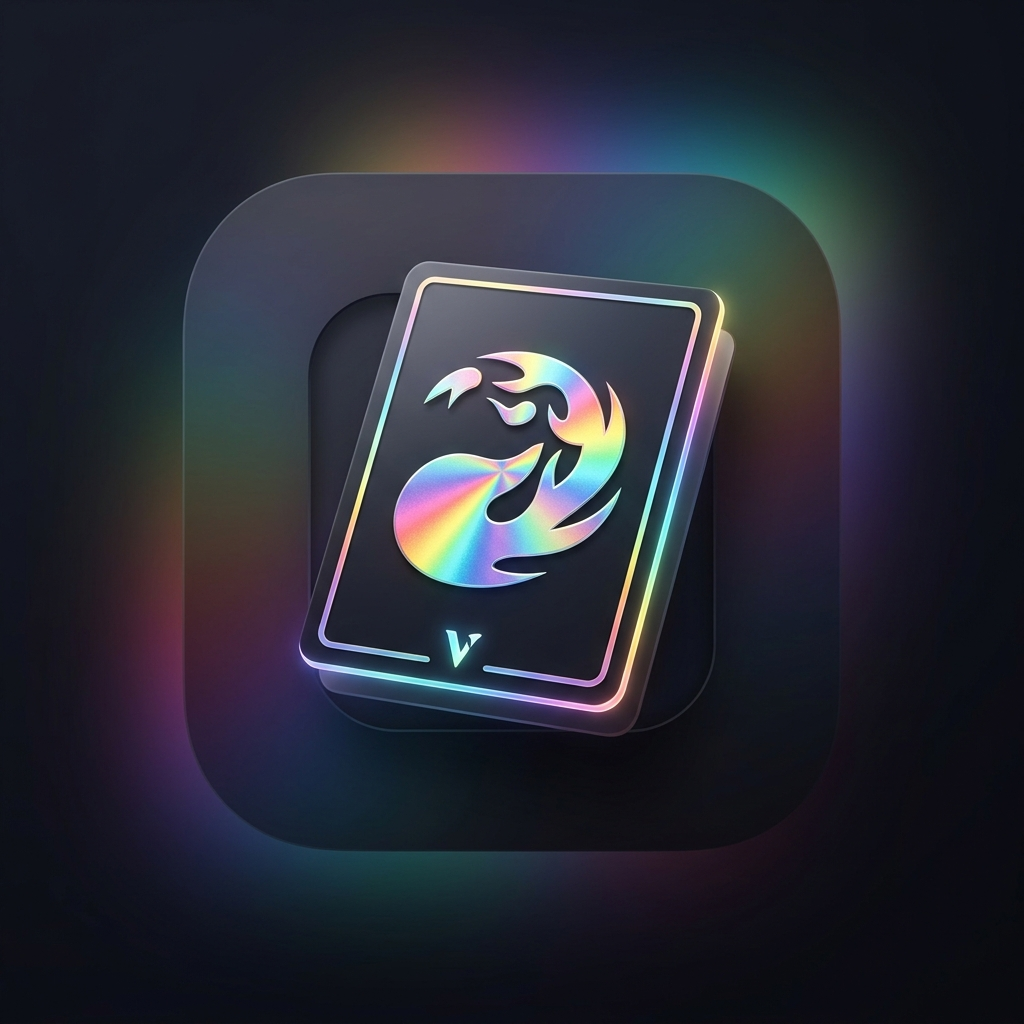
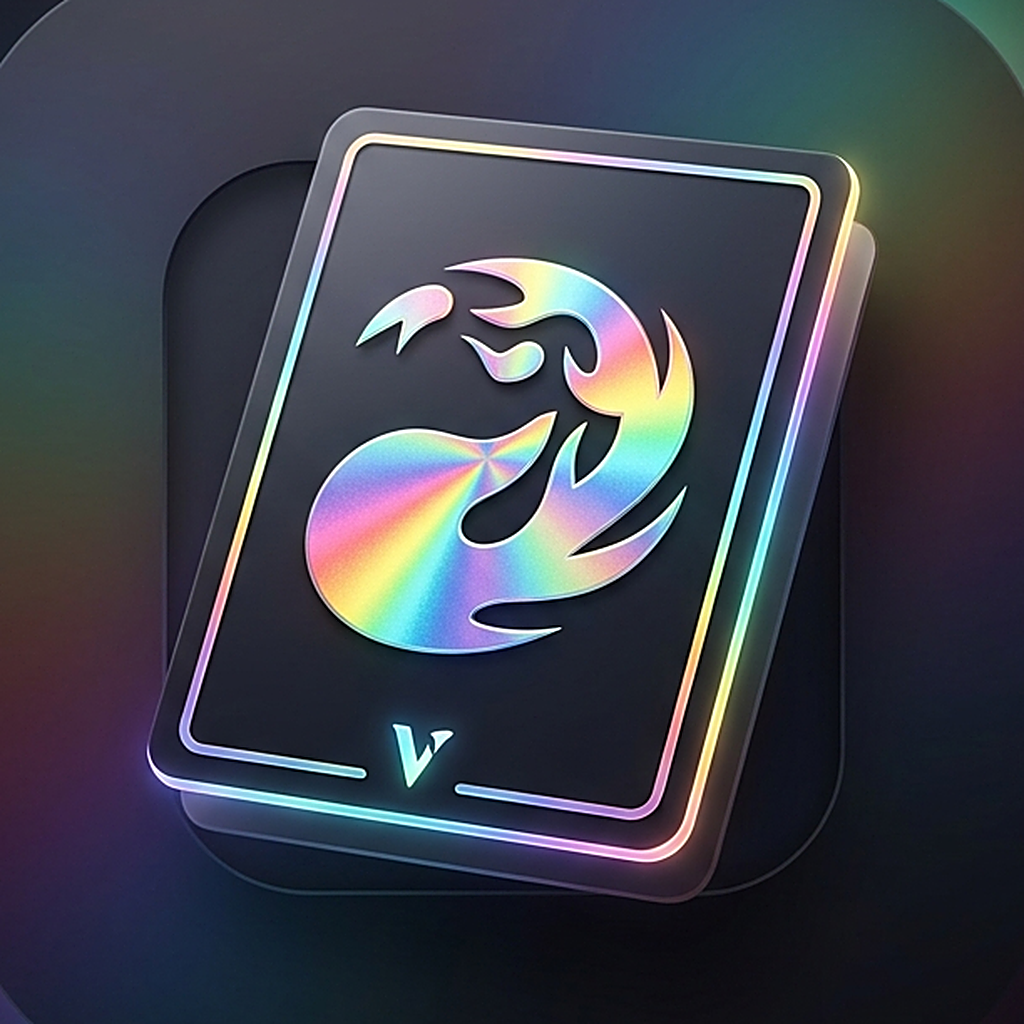
Icona ravvicinata sulla carta, misure per iPhone e Android
L'icona era disegnata dentro un secondo riquadro arrotondato e la carta
restava piccola: ora è ingrandita sulla carta. Aggiunte le misure 180,
192 e 512, la versione ritagliabile per Android e la favicon; manifest
e index.html aggiornati, app-version 17.

diff --git a/index.html b/index.html
@@ -6,14 +6,15 @@
 <title>Vetrina — Magic: The Gathering</title>
 
 <!-- App sulla schermata Home (iPhone/Android) -->
-<link rel="apple-touch-icon" href="icon.png">
+<link rel="icon" type="image/png" href="favicon.png">
+<link rel="apple-touch-icon" href="icon-180.png">
 <link rel="manifest" href="manifest.webmanifest">
 <meta name="apple-mobile-web-app-capable" content="yes">
 <meta name="mobile-web-app-capable" content="yes">
 <meta name="apple-mobile-web-app-title" content="Vetrina">
 <meta name="apple-mobile-web-app-status-bar-style" content="black-translucent">
 <meta name="theme-color" content="#08090c">
-<meta name="app-version" content="16">
+<meta name="app-version" content="17">
 
 <!-- Carattere dei titoli. Senza rete si ripiega su un serif di sistema. -->
 <link rel="preconnect" href="https://fonts.googleapis.com">
